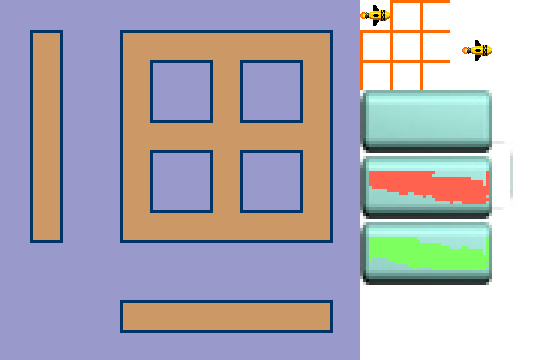
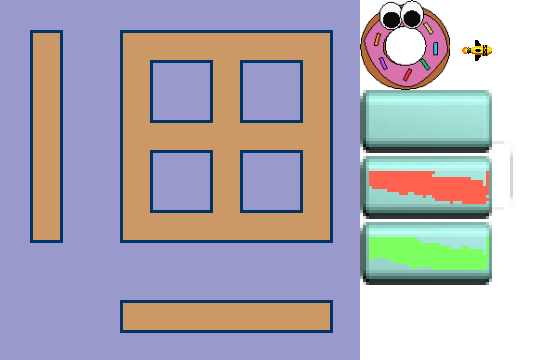
Adjusting scales for better textures

Changed region(s): [[0.6519, 0.0, 0.8593, 0.275]]

diff --git a/sfml_sneaky/sneakyworld.cpp b/sfml_sneaky/sneakyworld.cpp
@@ -14,11 +14,13 @@ using std::vector;
 using Vector = sf::Vector2f;
 using sf::Vertex;
 
-const auto ARENA_SQUARE = 150.f;
+const auto ARENA_SQUARE = 100.f;  // pixel size of one square
+const auto HEAD_SIZE = ARENA_SQUARE / 2.f; // pixel size of head
 const size_t ARENA_WIDTH_TILES = 10;
 const size_t ARENA_HEIGHT_TILES = 10;
 const size_t ARENA_TILE_COUNT = ARENA_WIDTH_TILES * ARENA_HEIGHT_TILES;
 const char* FLAREMAP_FILE_NAME = "media/sneaky/flaremap.txt";
+const float SCROLL_SPEED = 5.f;
 
 Vector tile_location(const int x, const int y) {
 	return Vector{x*ARENA_SQUARE,y*ARENA_SQUARE};
@@ -41,11 +43,10 @@ private:
 	float m_speed;
 	float m_rotation_speed;
 public:
-	Head(const sf::Texture & tex) : SpriteNode(tex,{120*3,0,30,30}, ARENA_SQUARE/(90.f)) {
+	Head(const sf::Texture & tex) : SpriteNode(tex,{120*3,0,90,90}, HEAD_SIZE/(90.f)) {
 		//setRotation(90);
-		setPosition(ARENA_SQUARE,ARENA_SQUARE);
-		setRotation(-90);
-		set_speed(6.f);
+		setPosition(ARENA_SQUARE*3,ARENA_SQUARE*3);
+		set_speed(4.f);
 	}
 
 	void update(FrameTime step) {
@@ -56,8 +57,8 @@ public:
 		}
 	}
 
-	void turn_left() {m_rotation_speed = -4; }
-	void turn_right() {m_rotation_speed = 4; }
+	void turn_left() {m_rotation_speed = -6; }
+	void turn_right() {m_rotation_speed = 6; }
 	void go_straight() {m_rotation_speed = 0.0f; }
 private:
 
@@ -68,7 +69,7 @@ private:
 
 	void adjust_velocity() {
 		sf::Transform t;
-		t.rotate(getRotation()-90);
+		t.rotate(getRotation());
 		m_velocity = t.transformPoint(0,m_speed);
 	}
 
@@ -102,7 +103,6 @@ protected:
 	}
 };
 
-
 class PlayState : public State {
 private:
 	sf::RenderStates m_rstate;
@@ -120,6 +120,8 @@ public:
 	void update(FrameTime step) override {
 		bool left = false;
 		bool right = false;
+		bool up = false;
+		bool down = false;
 		if (sf::Keyboard::isKeyPressed(sf::Keyboard::Key::Left))
 			left = true;
 		if (sf::Keyboard::isKeyPressed(sf::Keyboard::Key::Right))
@@ -132,7 +134,27 @@ public:
 		} else
 			m_head->go_straight();
 		m_head->update(step);
-	}
+		left = right = false;
+		if (sf::Keyboard::isKeyPressed(sf::Keyboard::Key::A))
+			left = true;
+		if (sf::Keyboard::isKeyPressed(sf::Keyboard::Key::D))
+			right = true;
+		if (sf::Keyboard::isKeyPressed(sf::Keyboard::Key::W))
+			up = true;
+		if (sf::Keyboard::isKeyPressed(sf::Keyboard::Key::S))
+			down = true;
+		if (left != right) {
+			if (left)
+				m_view.move(-SCROLL_SPEED,0.f);
+			if (right)
+				m_view.move(SCROLL_SPEED,0.f);
+		}
+		if (up != down)
+			if (up)
+				m_view.move(0.f,-SCROLL_SPEED);
+			if (down)
+				m_view.move(0.f,SCROLL_SPEED);
+		}
 	void draw() override {
 		m_context.window->setView(m_view);
 		m_rstate.texture = m_context.texture;
